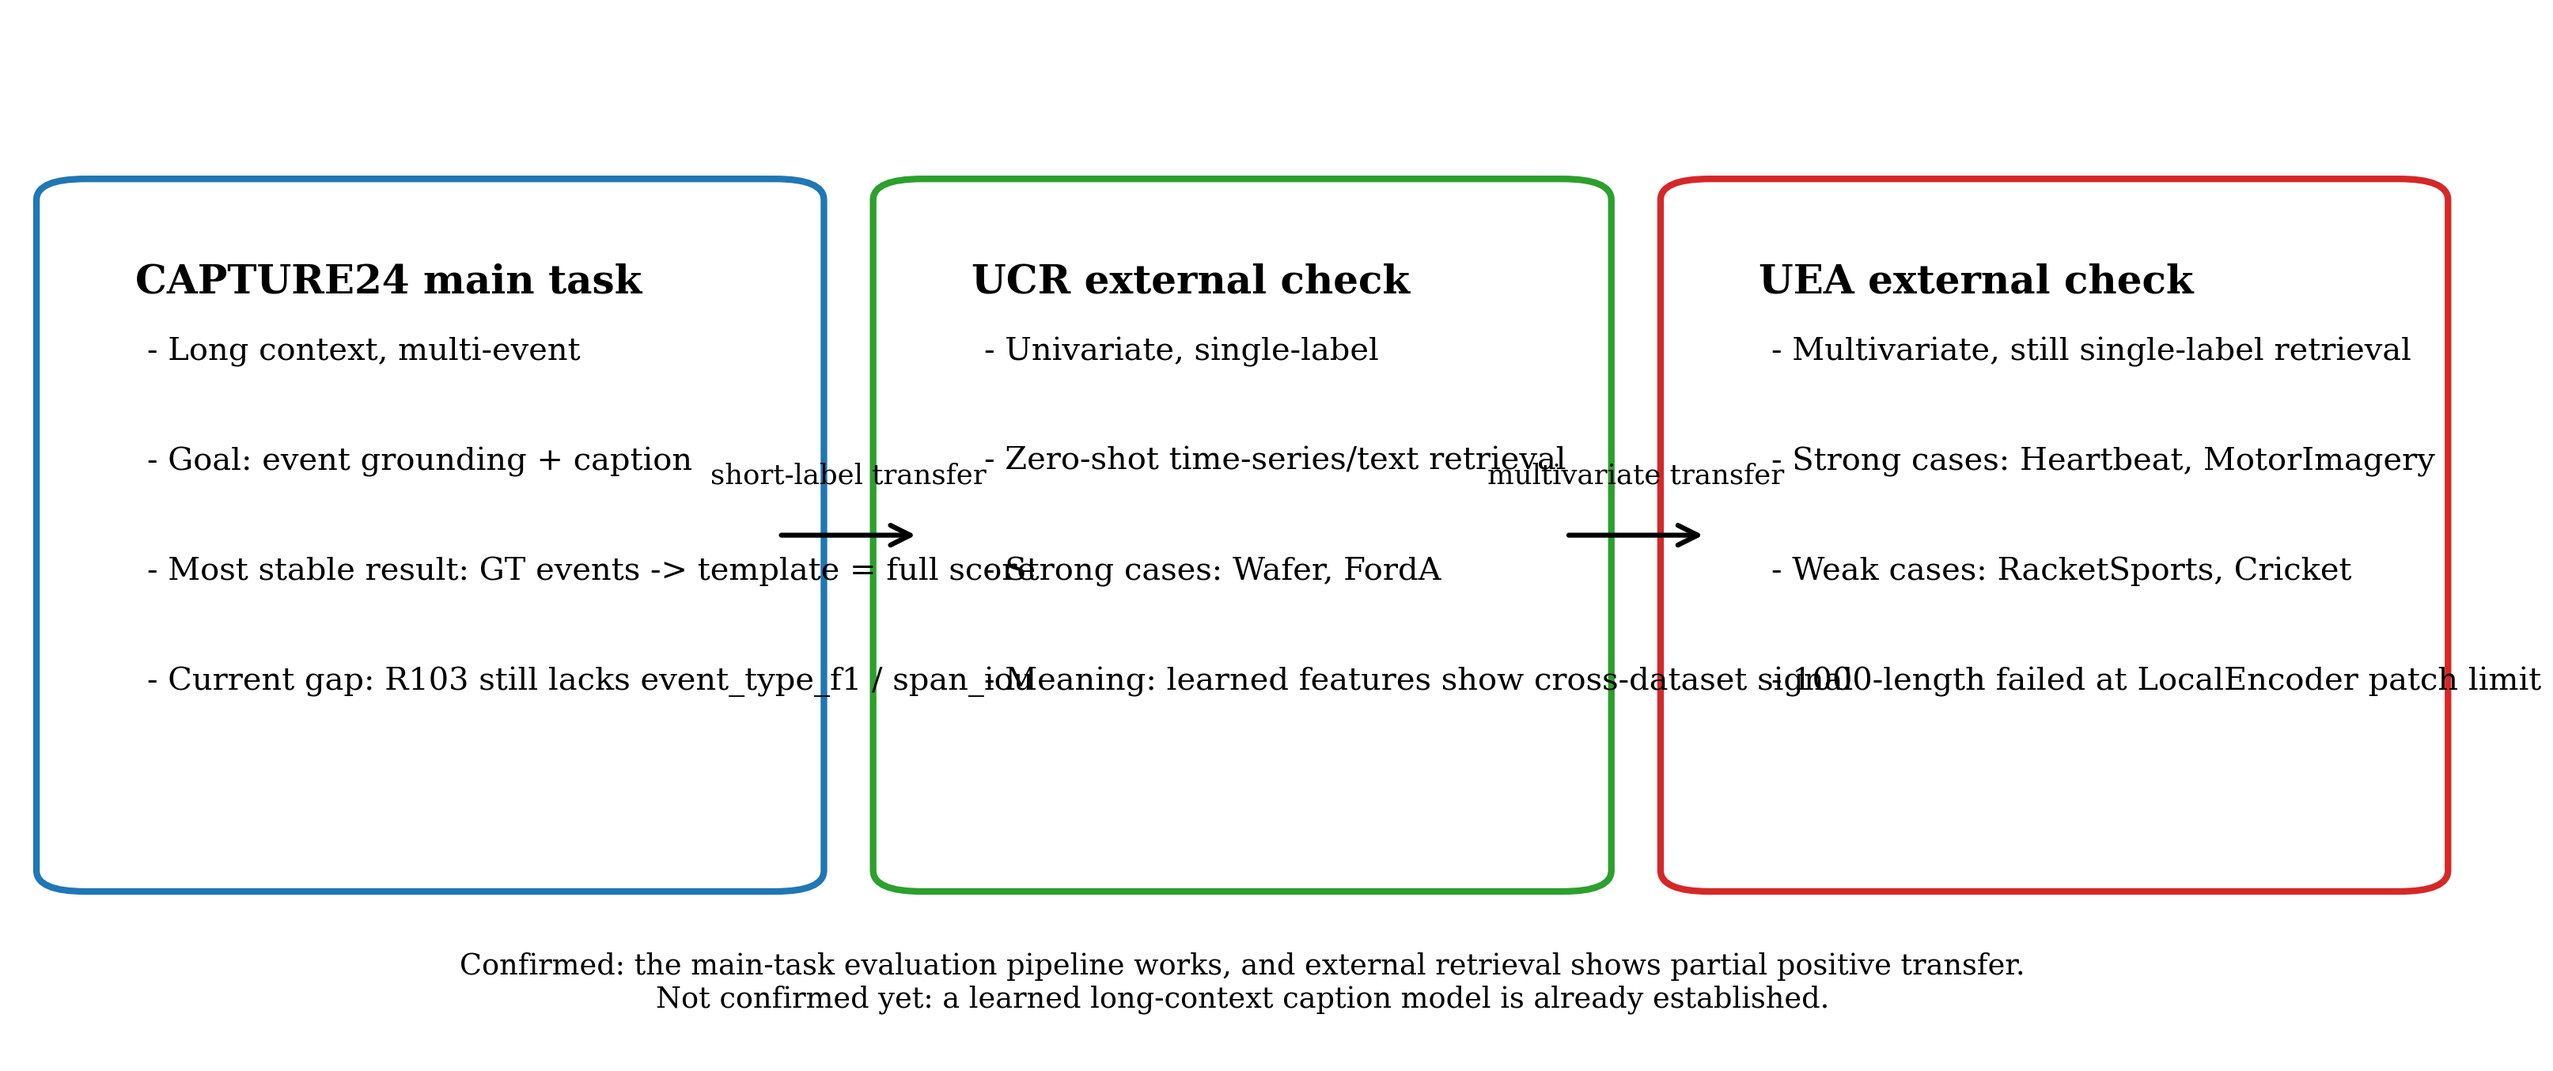
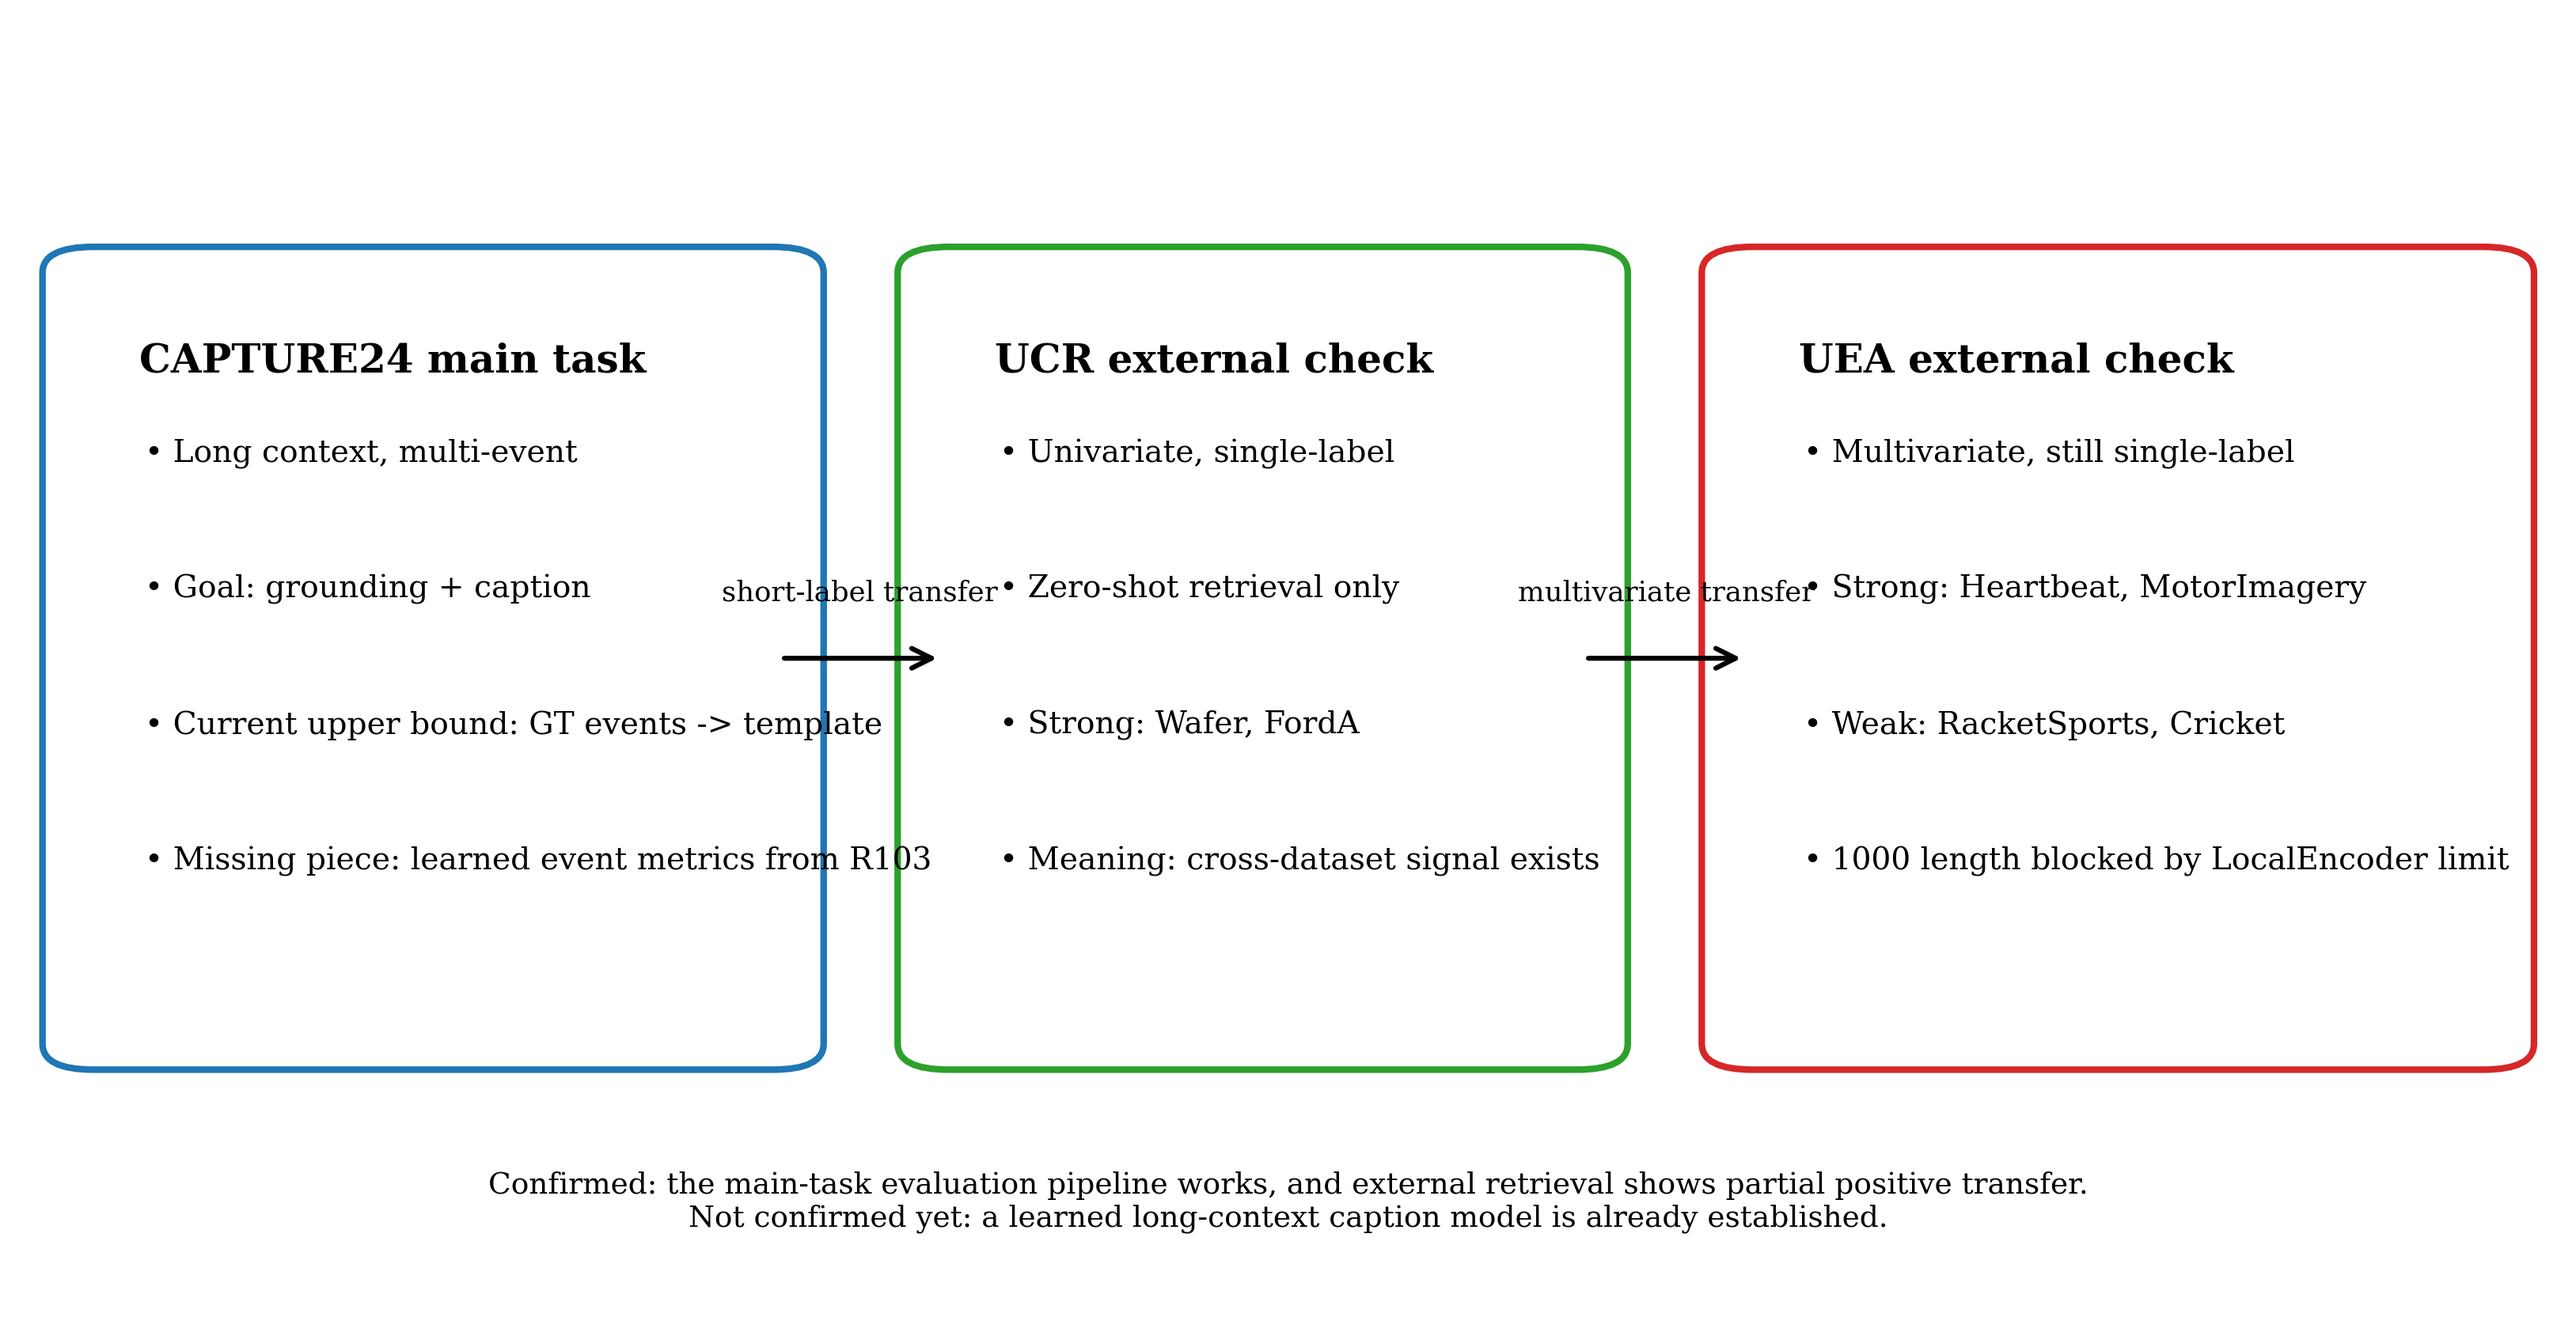
fix task hierarchy figure layout
Adjust the task hierarchy figure spacing to remove text overlap before linking it in the Notion report.

diff --git a/figures/gen_task_hierarchy_overview.py b/figures/gen_task_hierarchy_overview.py
@@ -7,63 +7,82 @@ from paper_plot_style import COLORS, save_fig
 
 OUT_PATH = Path(__file__).resolve().parent / "task_hierarchy_overview.png"
 
-fig, ax = plt.subplots(figsize=(10.8, 4.8), facecolor="white")
+fig, ax = plt.subplots(figsize=(11.2, 5.8), facecolor="white")
 ax.set_facecolor("white")
 ax.set_xlim(0, 1)
 ax.set_ylim(0, 1)
 ax.axis("off")
 
 boxes = [
-    (0.03, 0.18, 0.28, 0.64, COLORS[0], "CAPTURE24 main task", [
-        "Long context, multi-event",
-        "Goal: event grounding + caption",
-        "Most stable result: GT events -> template = full score",
-        "Current gap: R103 still lacks event_type_f1 / span_iou",
-    ]),
-    (0.37, 0.18, 0.26, 0.64, COLORS[2], "UCR external check", [
-        "Univariate, single-label",
-        "Zero-shot time-series/text retrieval",
-        "Strong cases: Wafer, FordA",
-        "Meaning: learned features show cross-dataset signal",
-    ]),
-    (0.69, 0.18, 0.28, 0.64, COLORS[3], "UEA external check", [
-        "Multivariate, still single-label retrieval",
-        "Strong cases: Heartbeat, MotorImagery",
-        "Weak cases: RacketSports, Cricket",
-        "1000-length failed at LocalEncoder patch limit",
-    ]),
+    {
+        "xy": (0.03, 0.20),
+        "wh": (0.27, 0.60),
+        "color": COLORS[0],
+        "title": "CAPTURE24 main task",
+        "lines": [
+            "Long context, multi-event",
+            "Goal: grounding + caption",
+            "Current upper bound: GT events -> template",
+            "Missing piece: learned event metrics from R103",
+        ],
+    },
+    {
+        "xy": (0.365, 0.20),
+        "wh": (0.25, 0.60),
+        "color": COLORS[2],
+        "title": "UCR external check",
+        "lines": [
+            "Univariate, single-label",
+            "Zero-shot retrieval only",
+            "Strong: Wafer, FordA",
+            "Meaning: cross-dataset signal exists",
+        ],
+    },
+    {
+        "xy": (0.68, 0.20),
+        "wh": (0.29, 0.60),
+        "color": COLORS[3],
+        "title": "UEA external check",
+        "lines": [
+            "Multivariate, still single-label",
+            "Strong: Heartbeat, MotorImagery",
+            "Weak: RacketSports, Cricket",
+            "1000 length blocked by LocalEncoder limit",
+        ],
+    },
 ]
 
-for x, y, w, h, color, title, lines in boxes:
+for box in boxes:
+    x, y = box["xy"]
+    w, h = box["wh"]
+    color = box["color"]
     rect = FancyBboxPatch(
         (x, y),
         w,
         h,
-        boxstyle="round,pad=0.02,rounding_size=0.02",
+        boxstyle="round,pad=0.018,rounding_size=0.02",
         facecolor="white",
         edgecolor=color,
         linewidth=2,
     )
     ax.add_patch(rect)
-    ax.text(x + 0.02, y + h - 0.06, title, fontsize=12, weight="bold", va="top")
+    ax.text(x + 0.02, y + h - 0.055, box["title"], fontsize=12, weight="bold", va="top")
     yy = y + h - 0.13
-    for line in lines:
-        ax.text(x + 0.025, yy, f"- {line}", fontsize=9.6, va="top")
+    for line in box["lines"]:
+        ax.text(x + 0.022, yy, f"• {line}", fontsize=9.4, va="top")
         yy -= 0.105
 
-arrow1 = FancyArrowPatch((0.31, 0.50), (0.37, 0.50), arrowstyle="->", mutation_scale=15, linewidth=1.5, color="black")
-arrow2 = FancyArrowPatch((0.63, 0.50), (0.69, 0.50), arrowstyle="->", mutation_scale=15, linewidth=1.5, color="black")
-ax.add_patch(arrow1)
-ax.add_patch(arrow2)
-ax.text(0.34, 0.55, "short-label transfer", fontsize=8.5, ha="center")
-ax.text(0.66, 0.55, "multivariate transfer", fontsize=8.5, ha="center")
-ax.text(
-    0.50,
-    0.05,
-    "Confirmed: the main-task evaluation pipeline works, and external retrieval shows partial positive transfer.\nNot confirmed yet: a learned long-context caption model is already established.",
-    fontsize=8.8,
-    ha="center",
-)
+ax.add_patch(FancyArrowPatch((0.30, 0.50), (0.365, 0.50), arrowstyle="->", mutation_scale=15, linewidth=1.5, color="black"))
+ax.add_patch(FancyArrowPatch((0.615, 0.50), (0.68, 0.50), arrowstyle="->", mutation_scale=15, linewidth=1.5, color="black"))
 
-fig.subplots_adjust(left=0.02, right=0.98, top=0.98, bottom=0.06)
+ax.text(0.332, 0.545, "short-label transfer", fontsize=8.5, ha="center")
+ax.text(0.648, 0.545, "multivariate transfer", fontsize=8.5, ha="center")
+
+summary = (
+    "Confirmed: the main-task evaluation pipeline works, and external retrieval shows partial positive transfer.\n"
+    "Not confirmed yet: a learned long-context caption model is already established."
+)
+ax.text(0.50, 0.08, summary, fontsize=9.0, ha="center", va="center")
+
+fig.subplots_adjust(left=0.02, right=0.98, top=0.98, bottom=0.04)
 save_fig(fig, str(OUT_PATH))
